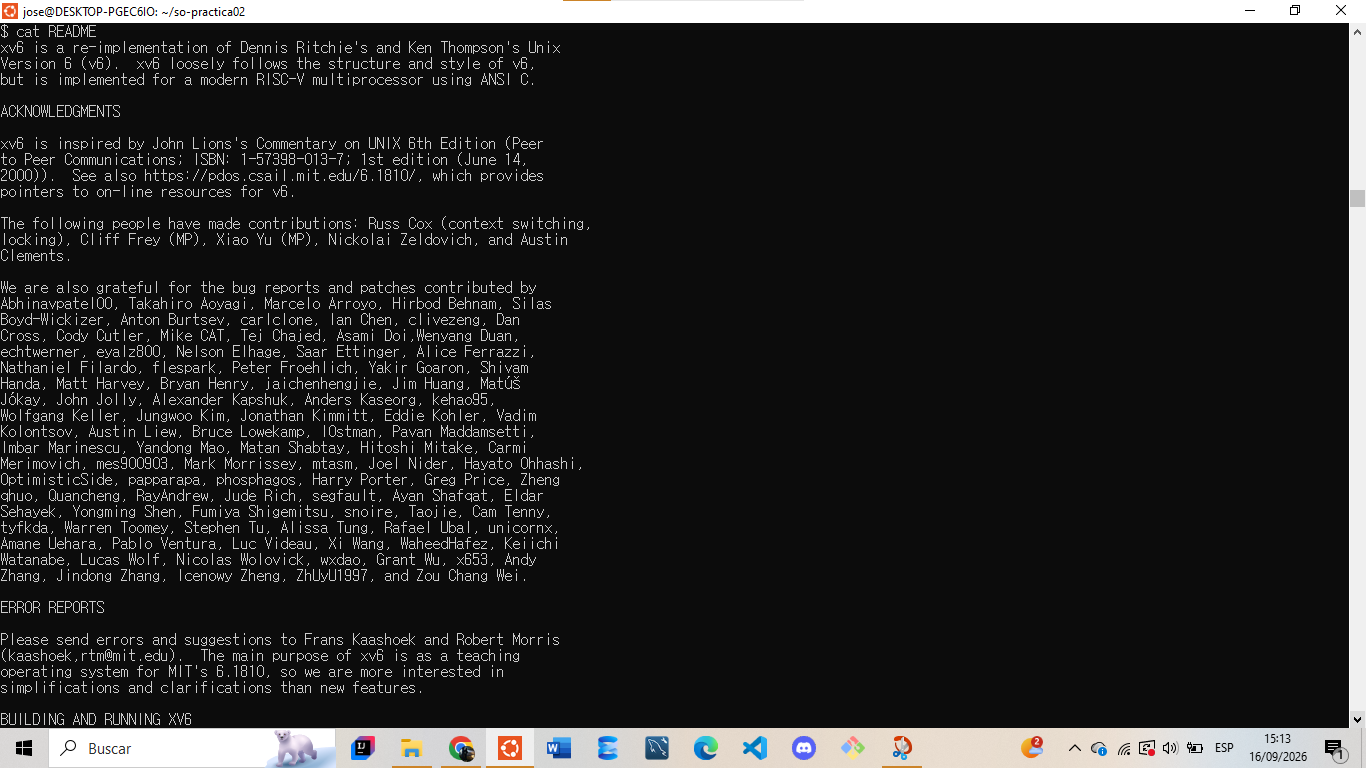
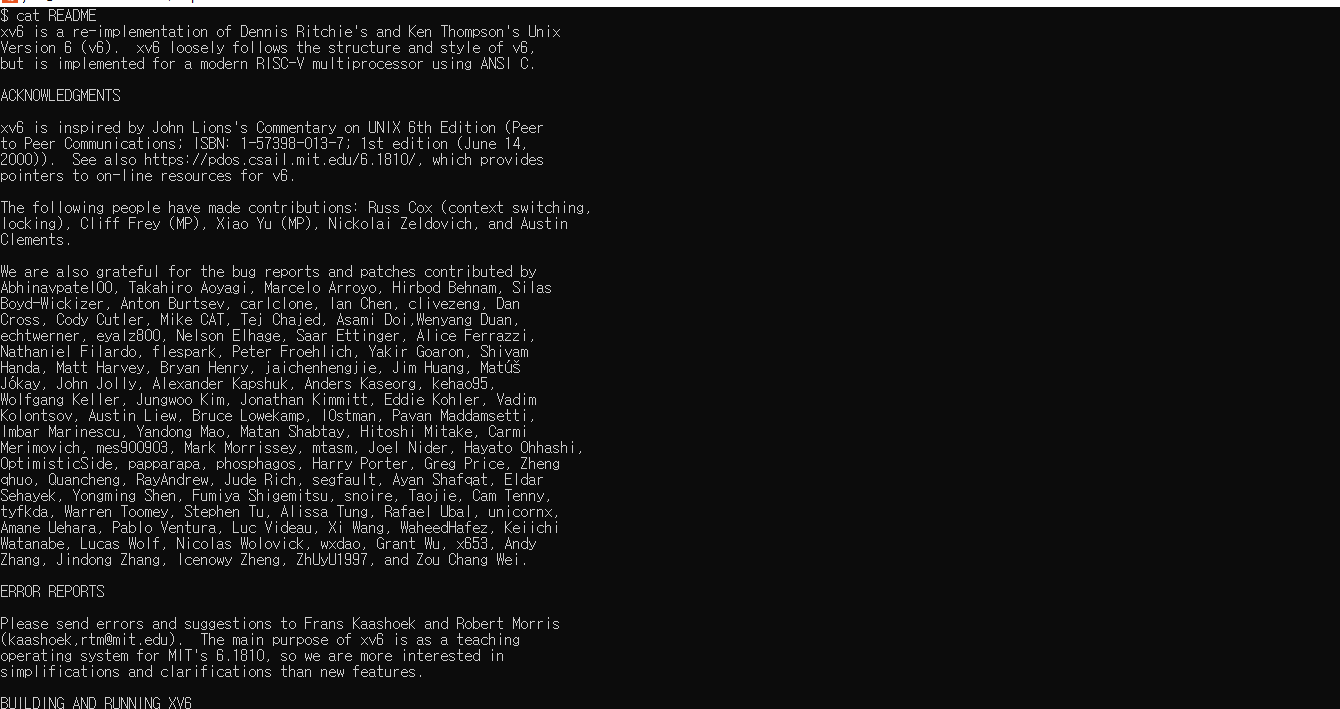
ejecusion correcta de los comandos echo, cat y wc

Changed region(s): [[0.0, 0.0, 1.0, 1.0]]

diff --git a/lab02.md b/lab02.md
@@ -97,15 +97,6 @@ El comando `ls` se utiliza para listar los archivos y directorios del sistema de
 
 Al ejecutar `$ ls` en el directorio raíz, deberías observar una estructura similar a la siguiente:
 
-```text
-.              1 1 1024
-..             1 1 1024
-README         2 2 2441
-cat            2 3 36728
-ls             2 10 42880
-console        3 23 0
-```
-
 ![Arranque de xv6 y comandos de la Parte A](img/ParteA_01.png)
 
 ### Creación de una nueva carpeta en xv6 (`mkdir`)
@@ -160,10 +151,54 @@ Al ejecutar **`cat README`**, ocurre lo siguiente paso a paso:
 2. **Lectura de datos:** El kernel de xv6 abre el archivo y lee su contenido secuencialmente bloque por bloque.
 3. **Despliegue en pantalla:** Todo el texto contenido dentro del archivo `README` (que por lo general incluye información introductoria sobre la versión de xv6, instrucciones de compilación o notas de los desarrolladores) se imprime línea por línea en la terminal hasta llegar al final del archivo (`EOF`).
 
-### ¿Qué observar enn la captura?
+### ¿Qué ose observa enla captura?
 * **El comando ingresado:** Se ve la línea `$ cat README` junto al prompt de xv6.
 * **El texto impreso:** Aparece el contenido descriptivo del archivo en pantalla.
 * **Retorno al prompt:** Una vez finalizada la lectura, la terminal vuelve a mostrar el prompt (`$`) listo para recibir nuevos comandos.
 
 ![Arranque de xv6 y comandos de la Parte A](img/ParteA_03.png)
 
+### Pruebas del sistema de archivos en xv6 (`echo`, `cat` y `wc`)
+
+
+## 🚀 Uso Rápido de Comandos
+
+En la terminal de xv6 se ejecutaron los siguientes comandos secuencialmente:
+
+```sh
+$ echo echo prueba de sistema de archivos > archivo.txt
+$ cat archivo.txt
+$ wc archivo.txt
+```
+
+---
+
+## 📖 Explicación Detallada 
+
+A continuación se detalla el comportamiento de cada instrucción:
+
+### 1. Creación de archivos y redirección de salida (`echo` y `>`)
+* **Comando:** `$ echo echo prueba de sistema de archivos > archivo.txt`
+* **Explicación:** El comando `echo` imprime texto en pantalla. Al utilizar el operador de redirección `>`, se redirige esa salida para crear (o sobrescribir) un archivo llamado `archivo.txt` con el contenido especificado.
+
+### 2. Lectura del archivo (`cat`)
+* **Comando:** `$ cat archivo.txt`
+* **Salida obtenida:** `echo prueba de sistema de archivos`
+* **Explicación:** El comando `cat` lee el archivo recién creado y muestra su contenido completo en la terminal.
+
+### 3. Conteo de líneas, palabras y bytes (`wc`)
+* **Comando:** `$ wc archivo.txt`
+* **Salida obtenida:** `1 6 35 archivo.txt`
+* **Explicación:** El comando `wc` (*word count*) cuenta métricas del archivo:
+  * **1:** Cantidad de líneas.
+  * **6:** Cantidad de palabras.
+  * **35:** Cantidad de bytes (tamaño total del texto).
+
+### 4. Finalización del entorno
+* **Mensaje final:** `QEMU: Terminated`
+* **Explicación:** Indica que la sesión de emulación de QEMU/xv6 ha sido cerrada correctamente.
+
+---
+
+## 📷 Evidencia 
+![Arranque de xv6 y comandos de la Parte A](img/ParteA_04.png)
